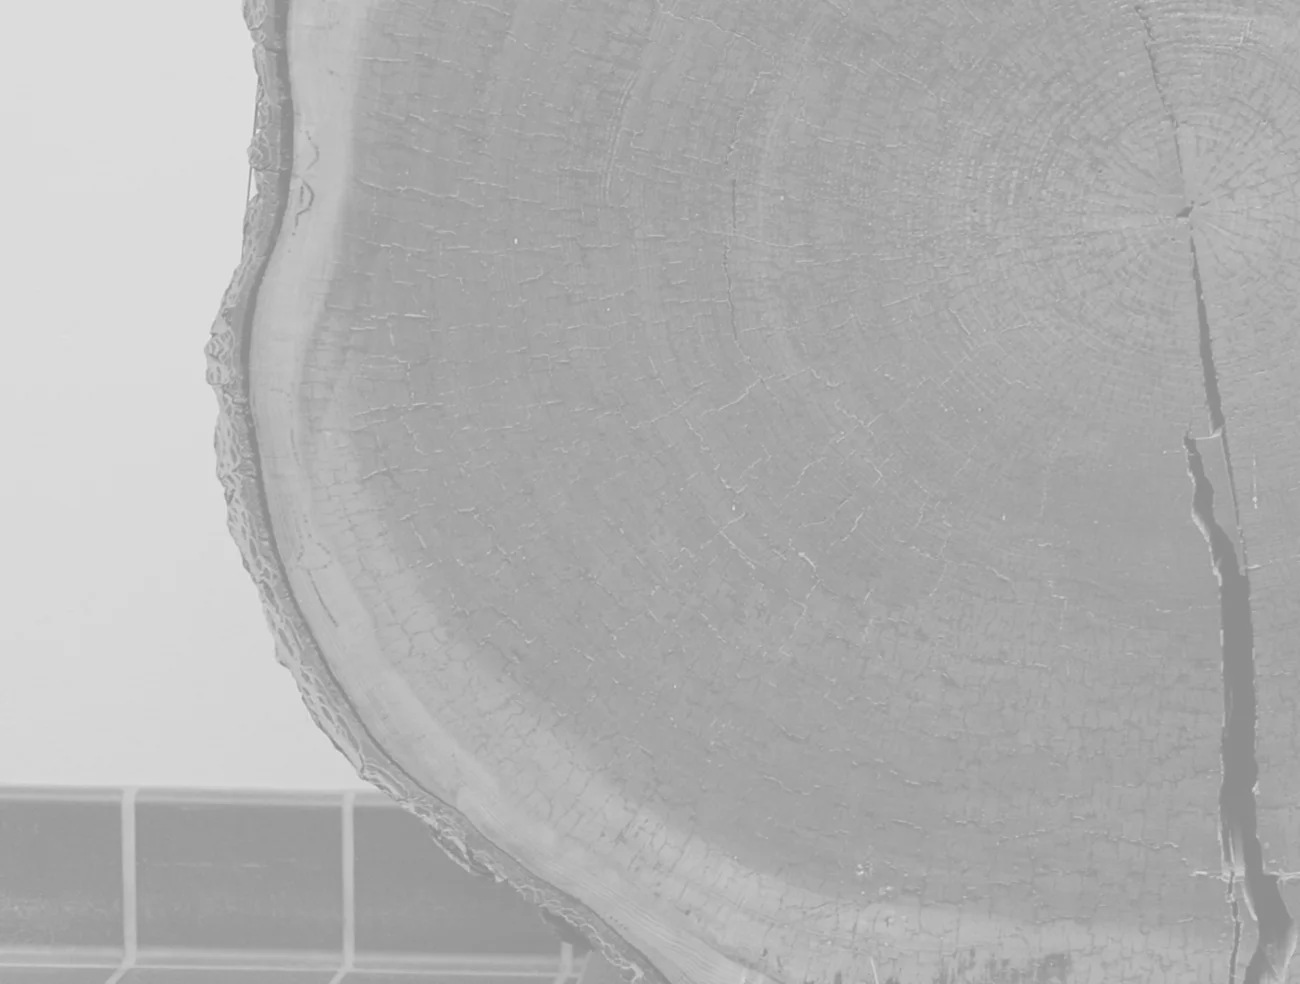
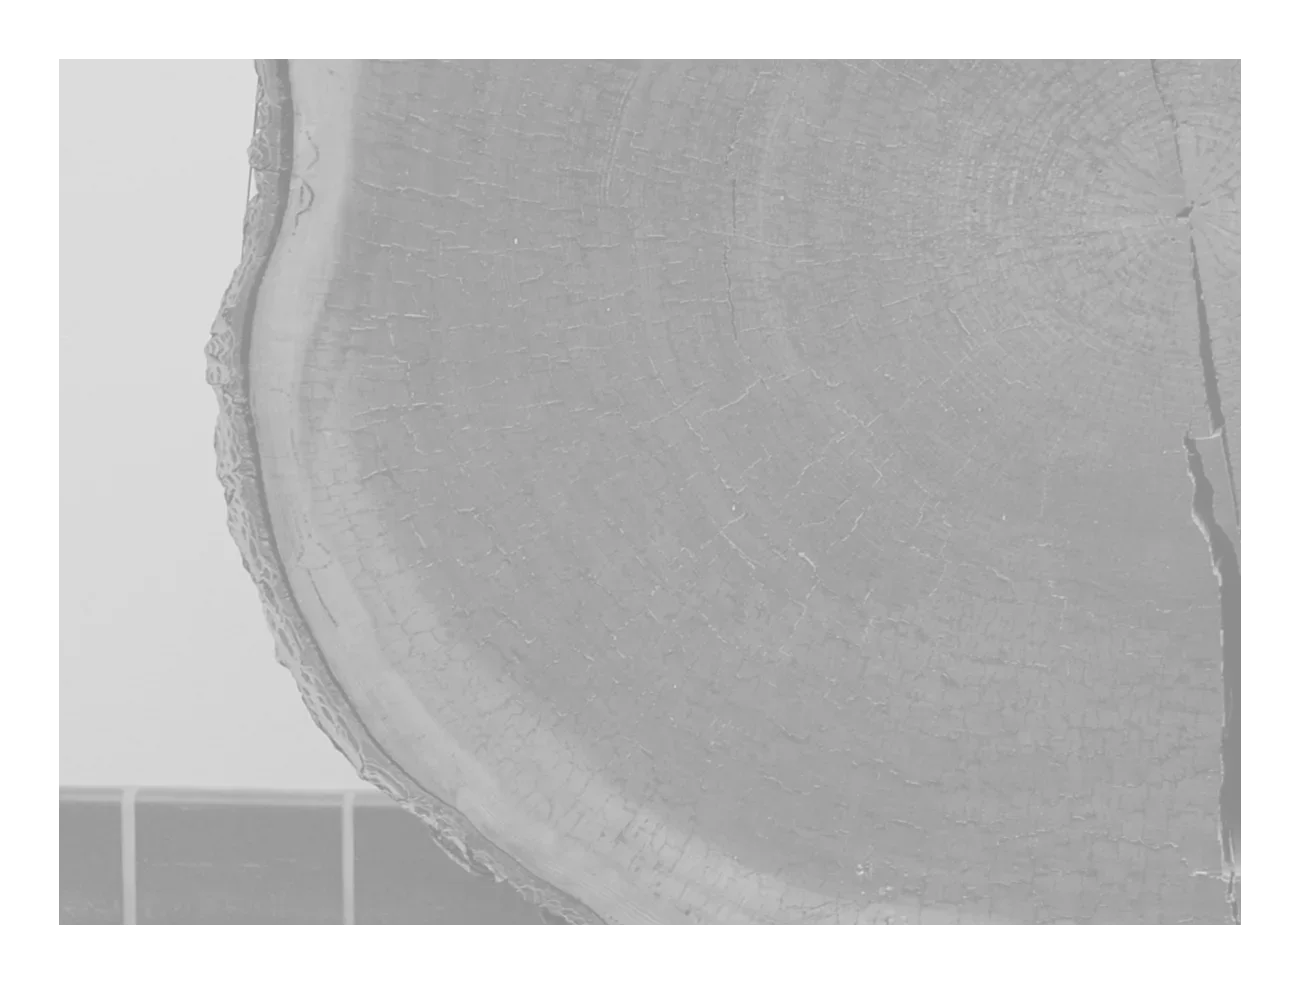
Give one plate its edge back and another its picture
An audit of all twenty-one plates, measured inside the feather rather than
across the whole file — the distinction matters, because every plate but one
carries its own alpha mask and the transparent border is dark. Measuring the
file measures the border.

Two plates were wrong.

fir-rings went up yesterday without the feather the other twenty have. It was
a hard rectangle among soft ones. It has the house edge now: opaque through
the middle, gone by the border, 80% of the frame.

oriel-window measured 97% featureless — a flat dark block where a window
should be. Talbot's negative is genuinely one of his faintest, so the fault
was in the crop and the compression, not the choice. Re-cropped from the
original and lifted from mean 107 to 166; the panes read.

Deliberately left alone: winter-stand and burnt-terrain carry more contrast
than the library median, but contrast is what those two photographs are, and
flattening them made them duller without making them quieter.

Changed region(s): [[0.0, 0.0, 1.0, 1.0]]

diff --git a/public/collage/README.md b/public/collage/README.md
@@ -103,7 +103,10 @@ illustrates the poem by naming its objects back to it.
 - `oriel-window.webp` — William Henry Fox Talbot, [The Oriel Window, South Gallery, Lacock Abbey], probably 1835.
   The Metropolitan Museum of Art, object 282004, public domain (Open Access).
   https://www.metmuseum.org/art/collection/search/282004
-  Used under *Love Outside Poems*.
+  Used under *Love Outside Poems*. Re-cropped and lifted in 2026: the earlier
+  crop measured 97% featureless — a flat dark rectangle — because this is one
+  of Talbot's faintest negatives and the tone had been compressed into almost
+  nothing. The window's own panes read now.
 
 - `le-tambour.webp` — Pierre-Louis Pierson, Le tambour, 1860s.
   The Metropolitan Museum of Art, object 261376, public domain (Open Access).
@@ -116,6 +119,8 @@ illustrates the poem by naming its objects back to it.
   Gillette, Wyoming. Photograph by Wikimedia Commons user Mr. Satterly, CC0
   (no rights reserved), 4896 × 3264.
   https://commons.wikimedia.org/wiki/File:Douglas_fir_trunk_cross-section_at_Lakeway_Learning_Center_in_Gillette,_Wyoming.jpg
+  Feathered at the edges like the rest of the library — it went up without
+  that and read as a hard rectangle among twenty soft ones.
   Cropped hard into the lower left of the disc — rings, one radial split and
   the bark at the edge. The whole photograph is a mounted section in a public
   hall, carrying its own interpretive placards, a year scale, a stand and a
